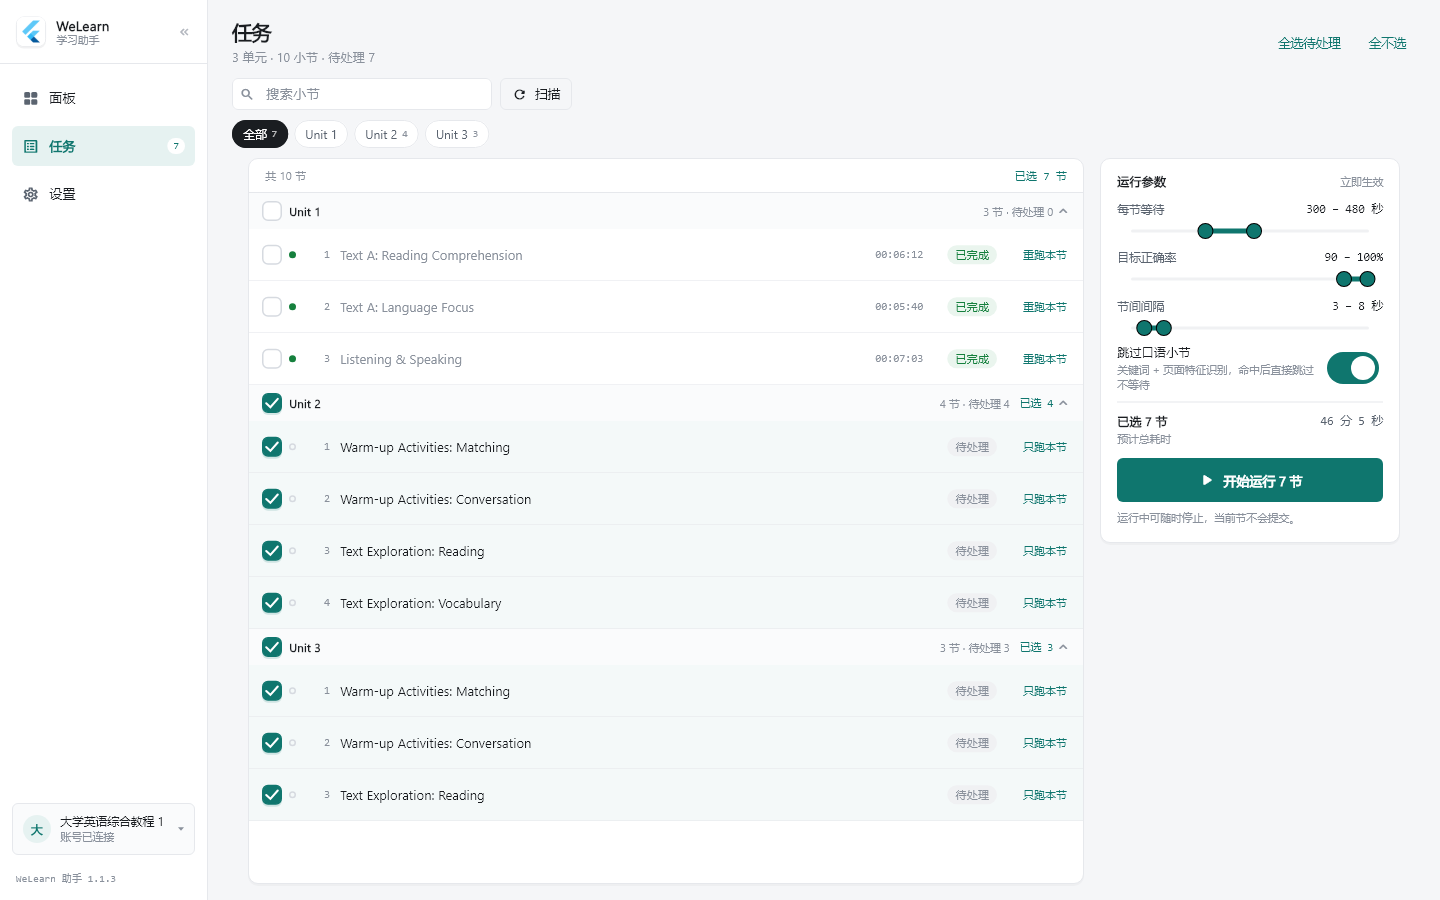
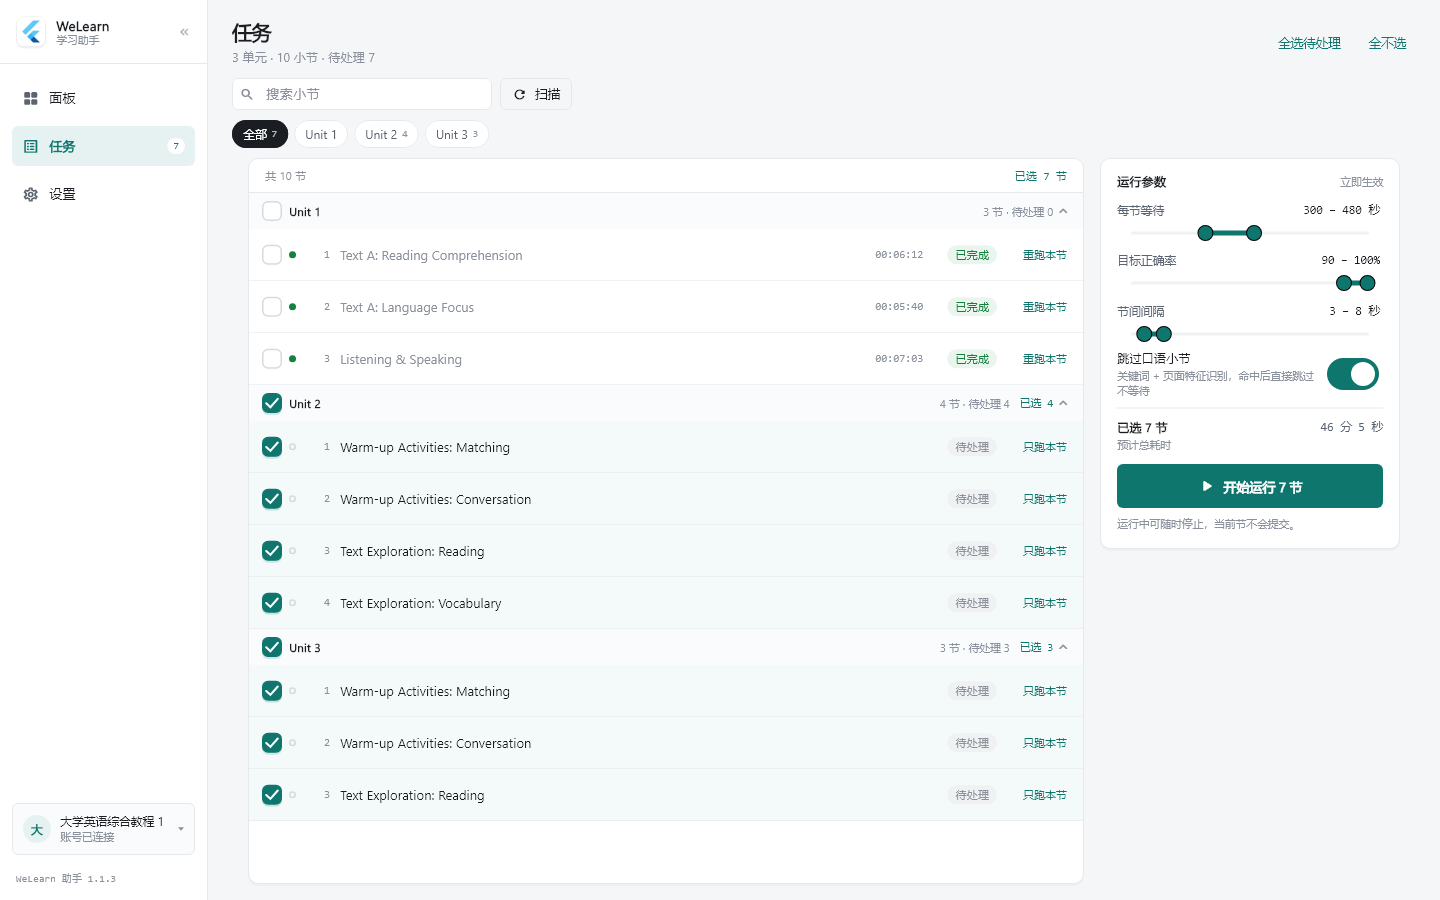
fix: 修复正确率两端无法设为相同值，并补齐口语小节识别与跳过

diff --git a/app/lib/ui/components.dart b/app/lib/ui/components.dart
@@ -575,6 +575,32 @@ class _RangeFieldState extends State<RangeField> {
     return lower <= upper ? RangeValues(lower, upper) : RangeValues(upper, lower);
   }
 
+  /// 精确输入：两个 thumb 重合时（例如 100–100）无法再用滑块分别选中，
+  /// 这里直接给出输入框，保证任何区间（含两端相等）都能设置。
+  Future<void> _editValues() async {
+    if (!widget.enabled) return;
+    final (currentStart, currentEnd) = _snap(_drag ?? _resting());
+    final result = await showDialog<RangeValues>(
+      context: context,
+      builder: (_) => _RangeValueDialog(
+        label: widget.label,
+        min: widget.min.round(),
+        max: widget.max.round(),
+        step: widget.step,
+        suffix: widget.suffix,
+        start: currentStart,
+        end: currentEnd,
+      ),
+    );
+    if (result == null || !mounted) return;
+
+    final a = result.start.round();
+    final b = result.end.round();
+    setState(() => _drag = null);
+    widget.onChanged(a, b);
+    widget.onChangeEnd?.call(a, b);
+  }
+
   @override
   Widget build(BuildContext context) {
     final values = _drag ?? _resting();
@@ -596,11 +622,26 @@ class _RangeFieldState extends State<RangeField> {
                 ),
               ),
             ),
-            Text(
-              '$shownStart – $shownEnd${widget.suffix}',
-              style: monoStyle(
-                size: 11.5,
-                color: enabled ? Tokens.textPrimary : Tokens.textTertiary,
+            Tooltip(
+              message: '点击精确输入',
+              child: InkWell(
+                onTap: enabled ? _editValues : null,
+                borderRadius: BorderRadius.circular(4),
+                child: Padding(
+                  padding: const EdgeInsets.symmetric(
+                    horizontal: 3,
+                    vertical: 1,
+                  ),
+                  child: Text(
+                    '$shownStart – $shownEnd${widget.suffix}',
+                    style: monoStyle(
+                      size: 11.5,
+                      color: enabled
+                          ? Tokens.textPrimary
+                          : Tokens.textTertiary,
+                    ),
+                  ),
+                ),
               ),
             ),
           ],
@@ -645,6 +686,154 @@ class _RangeFieldState extends State<RangeField> {
           ),
         ),
       ],
+    );
+  }
+}
+
+/// 区间滑杆的精确输入弹窗。
+///
+/// 两个 thumb 重合后（例如 100–100）滑块上很难再分别选中，
+/// 这里用输入框保证包括「两端相等」在内的任何区间都能设置。
+class _RangeValueDialog extends StatefulWidget {
+  const _RangeValueDialog({
+    required this.label,
+    required this.min,
+    required this.max,
+    required this.step,
+    required this.suffix,
+    required this.start,
+    required this.end,
+  });
+
+  final String label;
+  final int min;
+  final int max;
+  final int step;
+  final String suffix;
+  final int start;
+  final int end;
+
+  @override
+  State<_RangeValueDialog> createState() => _RangeValueDialogState();
+}
+
+class _RangeValueDialogState extends State<_RangeValueDialog> {
+  late final TextEditingController _startController = TextEditingController(
+    text: '${widget.start}',
+  );
+  late final TextEditingController _endController = TextEditingController(
+    text: '${widget.end}',
+  );
+  String? _error;
+
+  @override
+  void dispose() {
+    _startController.dispose();
+    _endController.dispose();
+    super.dispose();
+  }
+
+  void _submit() {
+    final a = int.tryParse(_startController.text.trim());
+    final b = int.tryParse(_endController.text.trim());
+    if (a == null || b == null) {
+      setState(() => _error = '请输入整数');
+      return;
+    }
+    if (a < widget.min || a > widget.max || b < widget.min || b > widget.max) {
+      setState(() => _error = '取值范围 ${widget.min} – ${widget.max}');
+      return;
+    }
+    if (a > b) {
+      setState(() => _error = '下限不能大于上限');
+      return;
+    }
+    final snappedA = snapToStep(
+      a,
+      min: widget.min,
+      max: widget.max,
+      step: widget.step,
+    );
+    final snappedB = snapToStep(
+      b,
+      min: widget.min,
+      max: widget.max,
+      step: widget.step,
+    );
+    Navigator.pop(context, RangeValues(snappedA.toDouble(), snappedB.toDouble()));
+  }
+
+  @override
+  Widget build(BuildContext context) {
+    return Dialog(
+      child: Padding(
+        padding: const EdgeInsets.fromLTRB(20, 18, 20, 14),
+        child: SizedBox(
+          width: 300,
+          child: Column(
+            mainAxisSize: MainAxisSize.min,
+            crossAxisAlignment: CrossAxisAlignment.stretch,
+            children: [
+              Text(
+                '${widget.label}精确设置',
+                style: const TextStyle(
+                  fontSize: 15,
+                  fontWeight: FontWeight.w600,
+                ),
+              ),
+              const SizedBox(height: 6),
+              Text(
+                '范围 ${widget.min} – ${widget.max}${widget.suffix}，两端可以相等。',
+                style: const TextStyle(
+                  fontSize: 11.5,
+                  color: Tokens.textTertiary,
+                  height: 1.5,
+                ),
+              ),
+              const SizedBox(height: 12),
+              TextField(
+                controller: _startController,
+                autofocus: true,
+                keyboardType: TextInputType.number,
+                decoration: const InputDecoration(
+                  labelText: '下限',
+                  isDense: true,
+                ),
+                onSubmitted: (_) => _submit(),
+              ),
+              const SizedBox(height: 10),
+              TextField(
+                controller: _endController,
+                keyboardType: TextInputType.number,
+                decoration: const InputDecoration(
+                  labelText: '上限',
+                  isDense: true,
+                ),
+                onSubmitted: (_) => _submit(),
+              ),
+              if (_error != null) ...[
+                const SizedBox(height: 8),
+                Text(
+                  _error!,
+                  style: const TextStyle(fontSize: 11, color: Tokens.danger),
+                ),
+              ],
+              const SizedBox(height: 14),
+              Row(
+                mainAxisAlignment: MainAxisAlignment.end,
+                children: [
+                  TextButton(
+                    onPressed: () => Navigator.pop(context),
+                    child: const Text('取消'),
+                  ),
+                  const SizedBox(width: 6),
+                  FilledButton(onPressed: _submit, child: const Text('确定')),
+                ],
+              ),
+            ],
+          ),
+        ),
+      ),
     );
   }
 }

diff --git a/app/lib/core/runner.dart b/app/lib/core/runner.dart
@@ -100,9 +100,13 @@ Future<ScannedCourse> scanCourse(
   );
 }
 
-/// 口语小节关键词。刻意不含裸 speaking ——「Listening & Speaking」是听力题。
+/// 口语小节关键词。`Listening & Speaking` 是听说课，用户明确希望整节跳过；
+/// 但只匹配完整短语或科目名，避免把单独的「Listening」听力课误判。
 const oralLessonKeywords = [
   '口语',
+  'listening & speaking',
+  'listening and speaking',
+  'speaking',
   'pronunciation',
   'read aloud',
   'readaloud',
@@ -232,12 +236,24 @@ Future<LessonResult> runLesson({
           '等待 ${(waitSec ~/ 60).toString().padLeft(2, '0')}:${(waitSec % 60).toString().padLeft(2, '0')}',
     );
 
-    // 页面特征判为口语课且没有可提交题目：直接跳过，不做整节等待。
-    // 标题关键词没命中的口语小节靠这里兜底，不再白等 5–8 分钟。
+    // 判为口语课的情况直接跳过，不做整节等待：
+    // 1. 标题命中口语关键词（旧队列没重新扫描时也能生效）
+    // 2. 没有任何可提交题目（纯口语 / 录音 / 语音评测页）
+    // 3. 口语题数量不少于可提交题（听说课里只夹杂少量听力题）
+    final oralTitle = isOralLesson(lesson);
+    final noSubmittable = parsed.questions.isEmpty;
+    final mostlyOral =
+        parsed.oral > 0 && parsed.oral >= parsed.questions.length;
     if (settings.skipOralLesson &&
-        parsed.questions.isEmpty &&
-        (parsed.oral > 0 || parsed.oralPage)) {
-      onLog?.call('info', '识别为口语小节（页面含录音/语音特征），已跳过等待');
+        (oralTitle || noSubmittable || mostlyOral)) {
+      final reason = oralTitle
+          ? '标题识别为口语小节，已跳过等待'
+          : (noSubmittable
+              ? (parsed.oralPage
+                  ? '识别为口语小节（页面含录音/语音特征），已跳过等待'
+                  : '未解析到可提交题目，已跳过等待')
+              : '口语题多于可提交题，按口语小节跳过等待');
+      onLog?.call('info', reason);
       return LessonResult(
         scoid: lesson.scoid,
         status: LessonStatus.skipped,

diff --git a/app/test/shell_smoke_test.dart b/app/test/shell_smoke_test.dart
@@ -6,6 +6,7 @@ import 'package:welearn_app/core/models.dart';
 import 'package:welearn_app/core/updater.dart';
 import 'package:welearn_app/theme.dart';
 import 'package:welearn_app/ui/app_scope.dart';
+import 'package:welearn_app/ui/components.dart';
 import 'package:welearn_app/ui/widgets.dart';
 import 'package:welearn_app/ui/workbench.dart';
 
@@ -375,5 +376,53 @@ void main() {
     } finally {
       debugDefaultTargetPlatformOverride = null;
     }
+  });
+
+  testWidgets('滑条数值可精确输入，两端允许相等', (tester) async {
+    int started = 90;
+    int ended = 100;
+    await tester.pumpWidget(
+      MaterialApp(
+        home: Scaffold(
+          body: StatefulBuilder(
+            builder: (context, setLocal) => Center(
+              child: SizedBox(
+                width: 300,
+                child: RangeField(
+                  label: '目标正确率',
+                  min: 0,
+                  max: 100,
+                  start: started,
+                  end: ended,
+                  suffix: '%',
+                  onChanged: (a, b) => setLocal(() {
+                    started = a;
+                    ended = b;
+                  }),
+                  onChangeEnd: (a, b) => setLocal(() {
+                    started = a;
+                    ended = b;
+                  }),
+                ),
+              ),
+            ),
+          ),
+        ),
+      ),
+    );
+
+    // 两个 thumb 重叠后无法再用滑块分别选中，点数值走精确输入
+    await tester.tap(find.text('90 – 100%'));
+    await tester.pumpAndSettle();
+    expect(find.text('目标正确率精确设置'), findsOneWidget);
+
+    await tester.enterText(find.byType(TextField).first, '100');
+    await tester.tap(find.text('确定'));
+    await tester.pumpAndSettle();
+
+    expect(started, 100);
+    expect(ended, 100);
+    expect(find.text('100 – 100%'), findsOneWidget);
+    expect(tester.takeException(), isNull);
   });
 }

diff --git a/app/test/core_test.dart b/app/test/core_test.dart
@@ -5,6 +5,7 @@ import 'package:welearn_app/core/api.dart';
 import 'package:welearn_app/core/browser_login.dart';
 import 'package:welearn_app/core/models.dart';
 import 'package:welearn_app/core/parser.dart';
+import 'package:welearn_app/core/runner.dart';
 import 'package:welearn_app/core/scorm.dart';
 import 'package:welearn_app/core/updater.dart';
 import 'package:welearn_app/ui/components.dart' show snapToStep;
@@ -238,6 +239,32 @@ void main() {
   });
 
   group('口语题识别', () {
+    test('Listening & Speaking 标题识别为口语小节', () {
+      const lesson = Lesson(
+        unitIndex: 2,
+        scoid: 'x',
+        location: 'Unit 3 > Text A: Listening & Speaking > Task 4',
+        visible: true,
+        complete: false,
+        learnTime: '',
+        crateLabel: '-',
+      );
+      expect(isOralLesson(lesson), isTrue);
+    });
+
+    test('普通阅读小节不会被口语关键词误判', () {
+      const lesson = Lesson(
+        unitIndex: 2,
+        scoid: 'y',
+        location: 'Unit 3 > Text B: Reading',
+        visible: true,
+        complete: false,
+        learnTime: '',
+        crateLabel: '-',
+      );
+      expect(isOralLesson(lesson), isFalse);
+    });
+
     test('页面含录音控件时标记为口语页', () {
       final parsed = parseSco(
         '<html><body><div class="record-button">按住录音</div></body></html>',

diff --git a/README.md b/README.md
@@ -17,13 +17,14 @@ WE Learn 学习助手的 Windows 桌面端与 Android 客户端。一套 Flutter
 ### 1.1.3 更新要点
 
 - 检查更新加入 TLS 握手失败自动重试与友好提示；GitHub API 限流时显示配额重置时刻，不再抛原始 `HandshakeException`。
-- 口语题识别升级为「标题关键词 + 页面特征分析」：识别到录音 / 麦克风 / 语音评测控件时标记为口语小节。
-- 口语小节命中后不再等待整节时长，直接跳过，节省挂机时间。
+- 口语题识别升级为「标题关键词 + 页面特征分析」：`Listening & Speaking` 等听说小节、录音 / 麦克风 / 语音评测页都会被识别；旧队列未重新扫描时运行时也会按标题跳过。
+- 口语小节命中后不再等待整节时长，直接跳过，节省挂机时间；解析不到可提交题目的空节同样跳过。
 - 面板「最近完成」新增完成时间（1 天内显示「n 分钟前 / n 小时前」，超过一天显示具体时间）；卡片顺序改为 4 个指标 → 运行 → 最近完成 → 单元完整度 → 日志。
 - 日志保留量从 400 条提升到 2000 条；宽屏面板可显示最近 16 条。
 - 心跳日志改为「+本次增量秒 · 本节累计秒」，一眼看出两次心跳之间加了多少。
 - 任务页「全部」标签下支持折叠 / 展开每个 Unit。
 - 每节等待步长从 2 秒改为 10 秒（30–900 秒），三个滑条拖动时改为连续跟手、松手吸附。
+- 区间滑条支持点击数值精确输入，两端可以相等（例如目标正确率 100–100）。
 - 节间间隔改为单独倒计时：运行卡显示「距离下一节 mm:ss」，不再停留在上一节归零的 0:00。
 - 移除 GitHub 仓库链接的修改入口，只保留「打开」。
 - 强制清除会话凭据时一并清空内置浏览器的 Cookie、缓存与本地存储。
